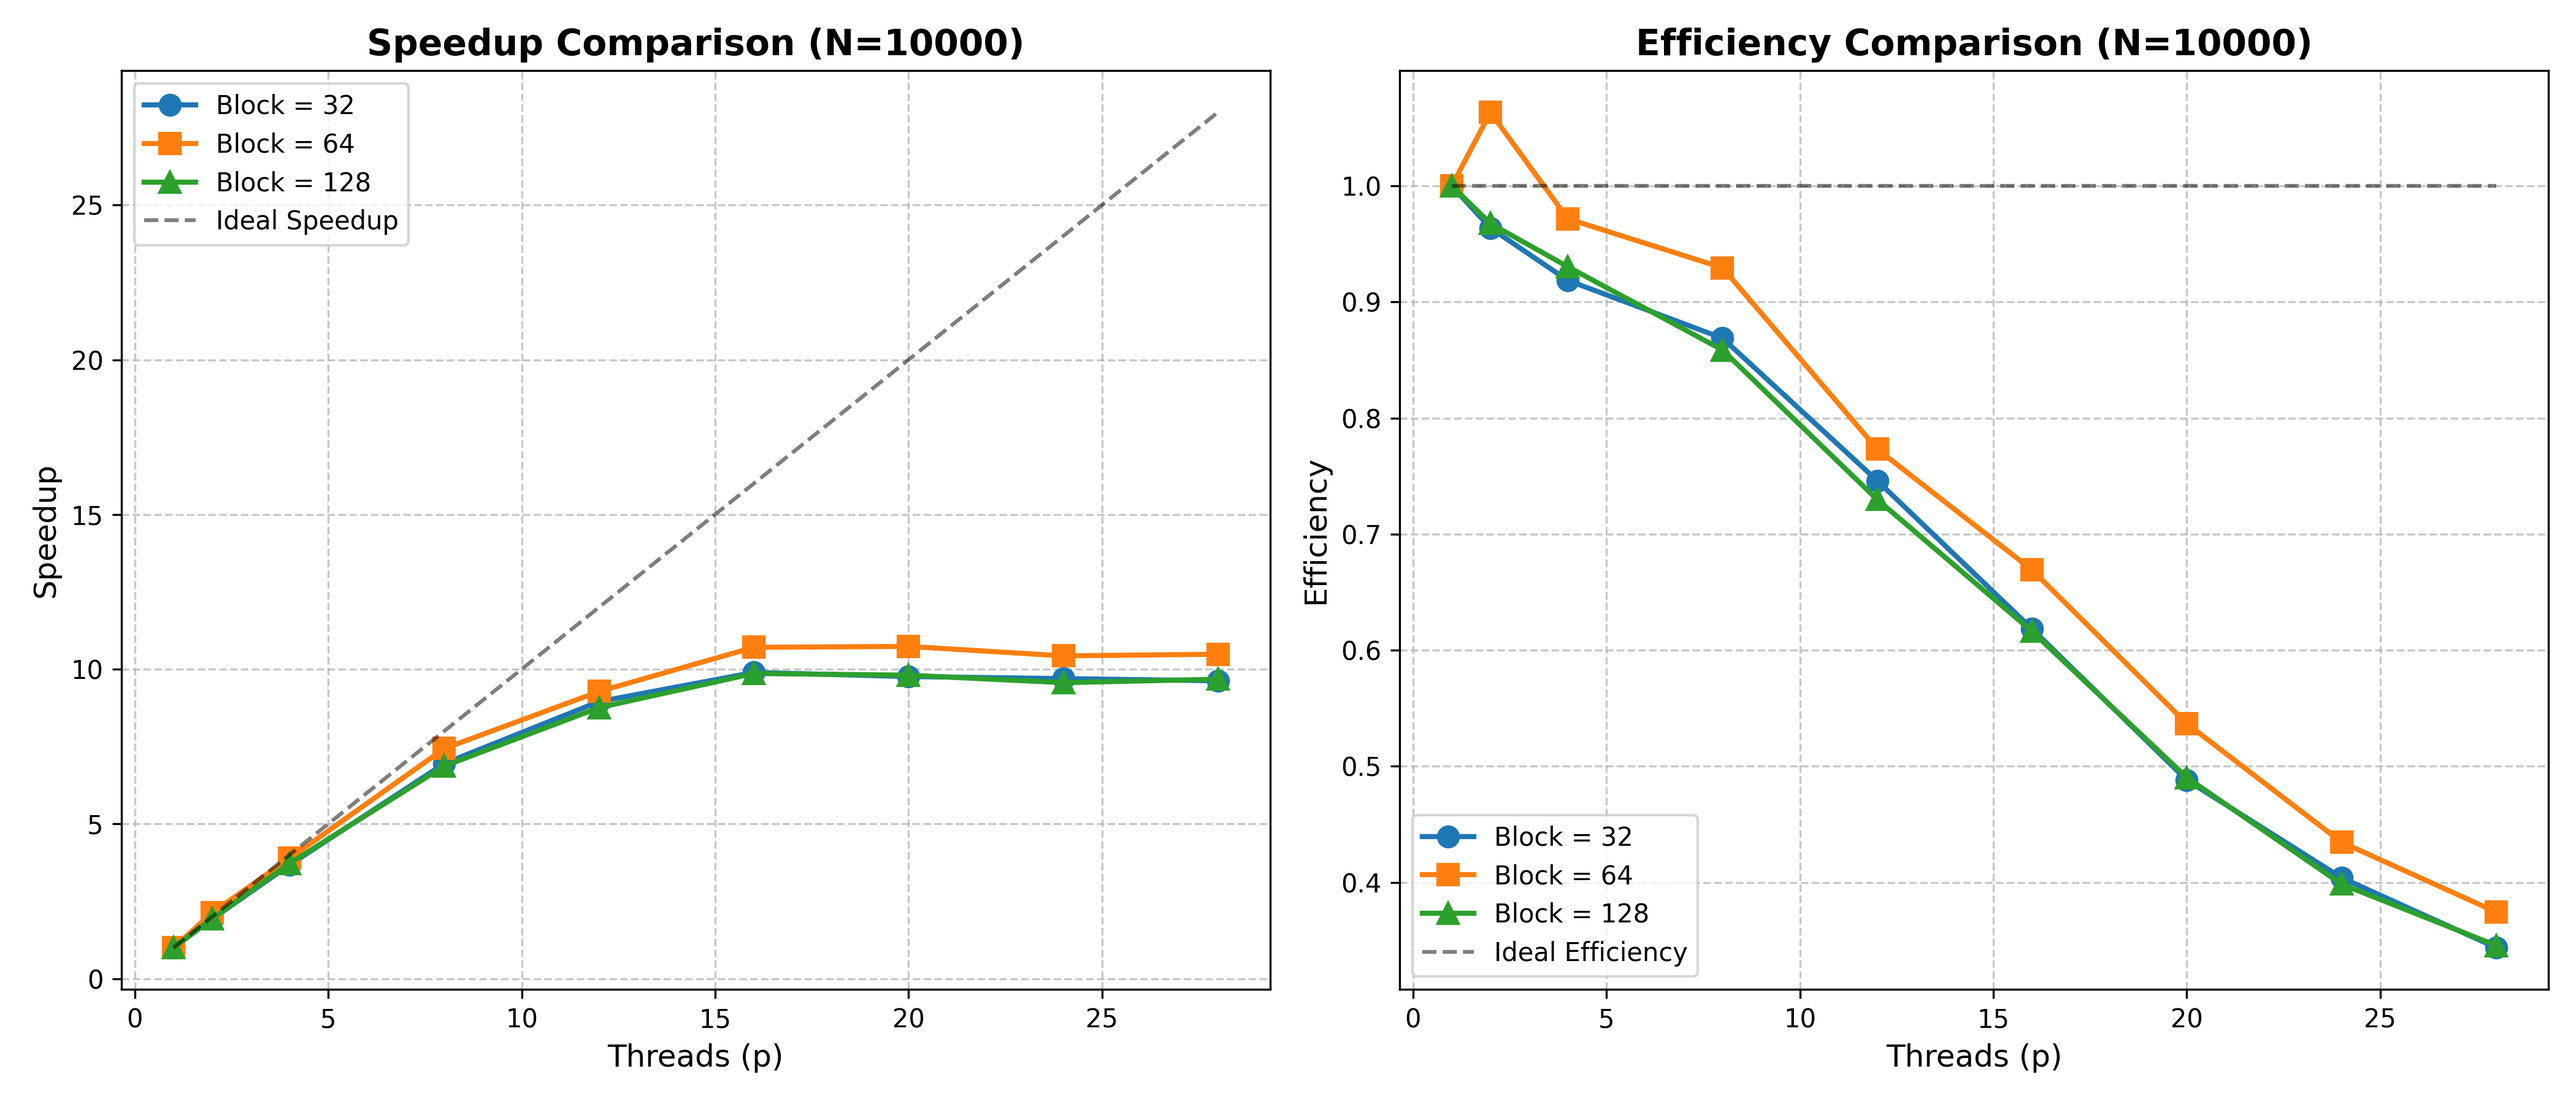
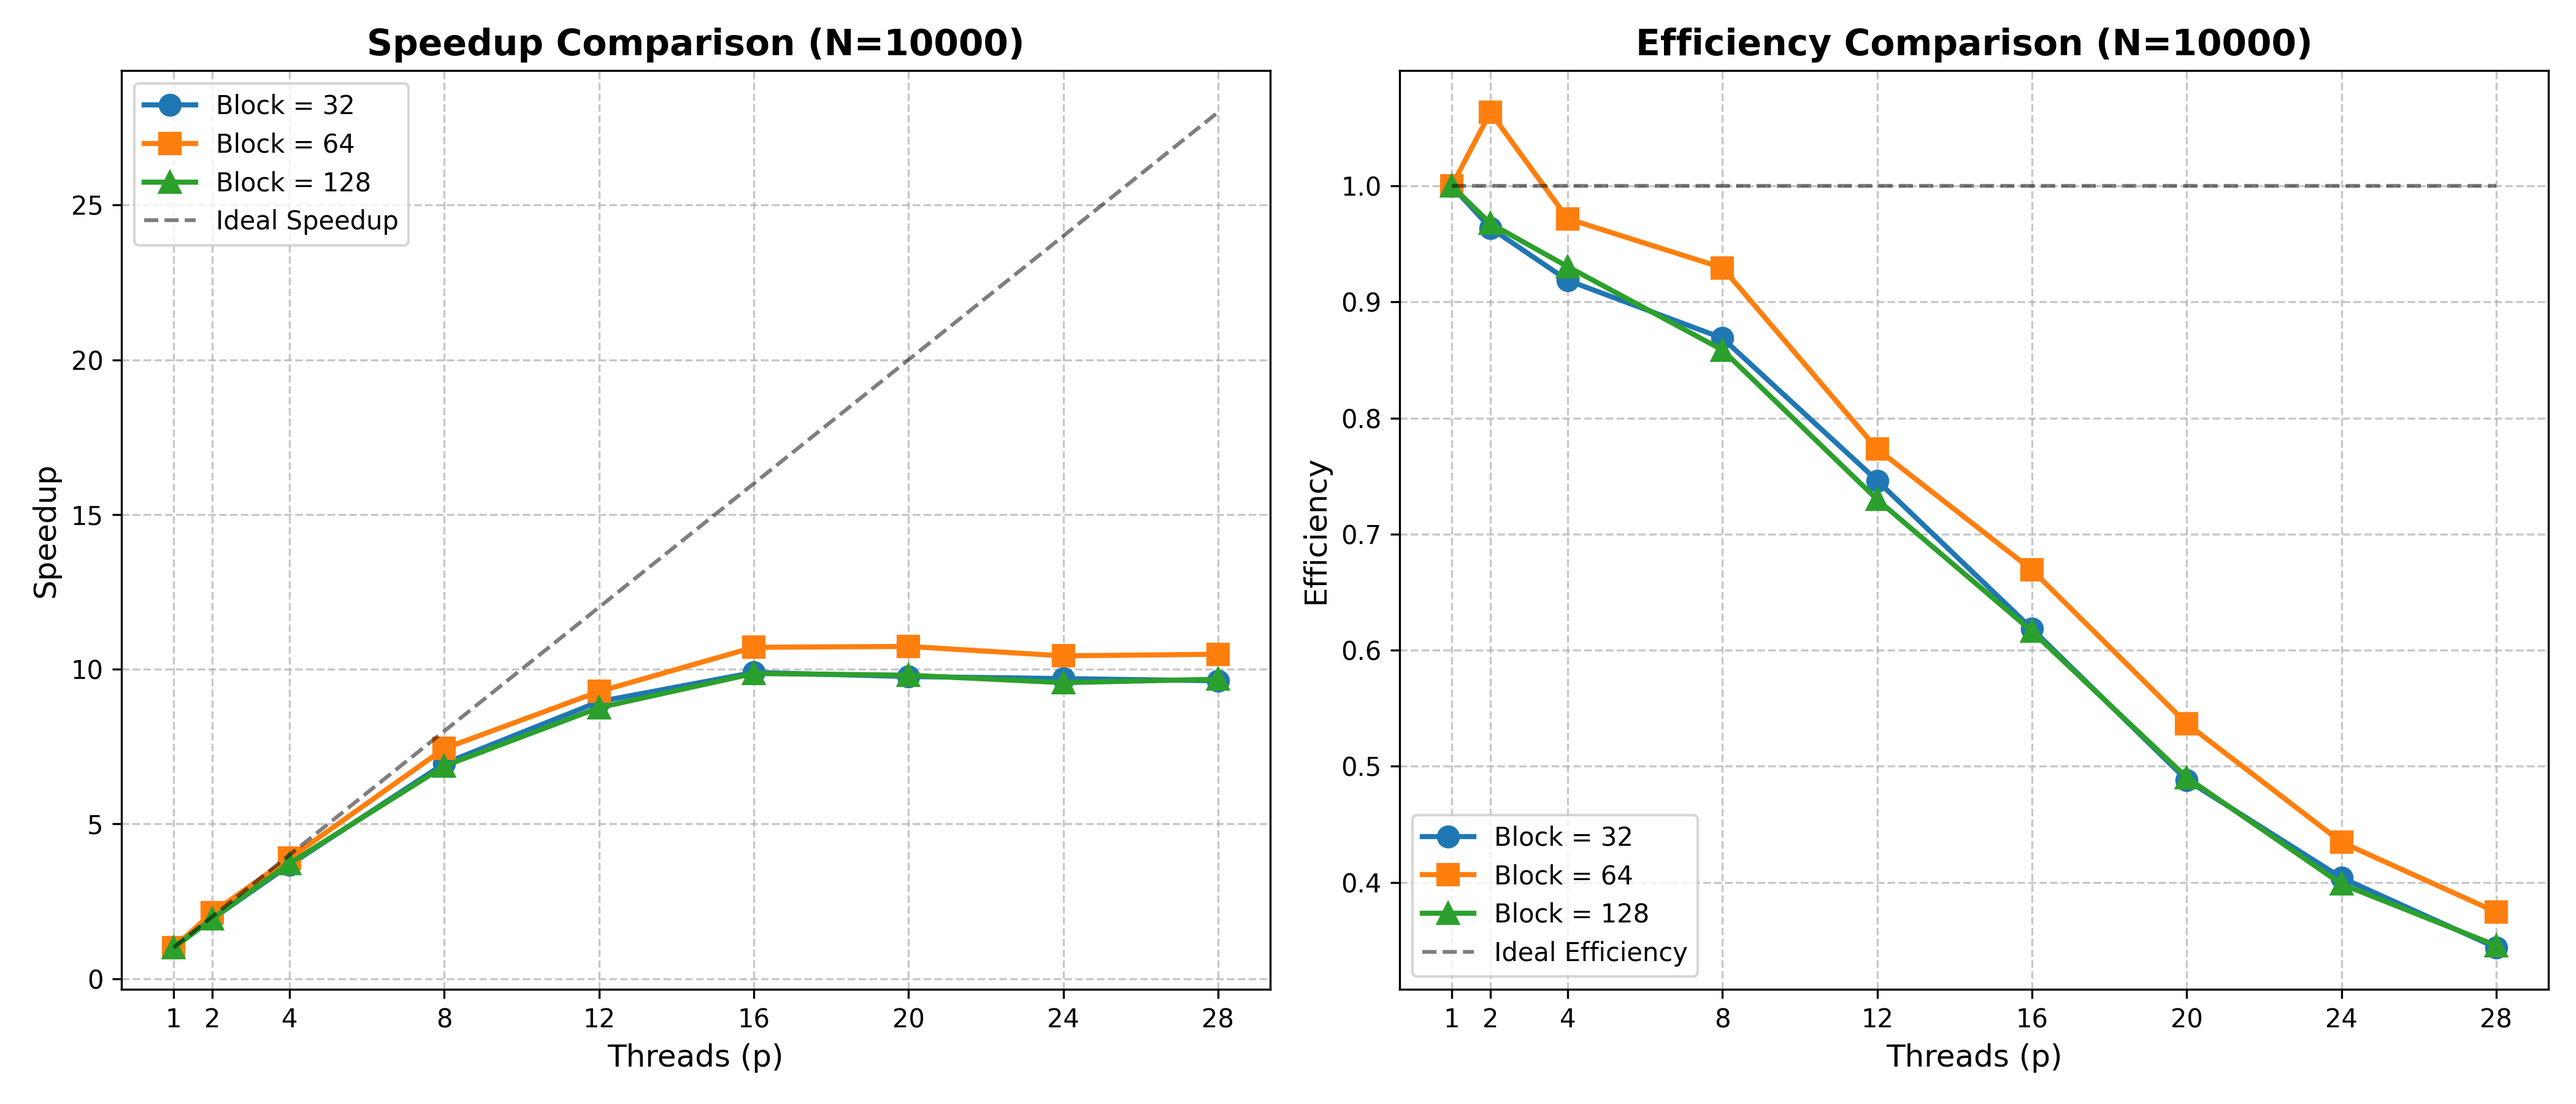
correct openMp block graphs

Changed region(s): [[0.9045, 0.9022, 0.9357, 0.9333], [0.4055, 0.9022, 0.4367, 0.9333], [0.2807, 0.9022, 0.3119, 0.9333]]

diff --git a/scripts/plot_block.py b/scripts/plot_block.py
@@ -9,7 +9,7 @@ except FileNotFoundError:
     print("Error: File {} not found.".format(csv_path))
     exit(1)
 
-target_N = 10000
+target_N = 15000
 df_n = df[df['N'] == target_N]
 
 fig, (ax1, ax2) = plt.subplots(1, 2, figsize=(14, 6))
@@ -36,14 +36,16 @@ max_threads = df['Threads'].max()
 ax1.plot([1, max_threads], [1, max_threads], 'k--', alpha=0.5, label='Ideal Speedup')
 ax2.plot([1, max_threads], [1, 1], 'k--', alpha=0.5, label='Ideal Efficiency')
  
-ax1.set_title('Speedup Comparison (N=5000)', fontsize=14, fontweight='bold')
+ax1.set_title('Speedup Comparison (N=15000)', fontsize=14, fontweight='bold')
 ax1.set_xlabel('Threads (p)', fontsize=12)
+ax1.set_xticks(df['Threads'].unique())
 ax1.set_ylabel('Speedup', fontsize=12)
 ax1.grid(True, linestyle='--', alpha=0.7)
 ax1.legend()
 
-ax2.set_title('Efficiency Comparison (N=5000)', fontsize=14, fontweight='bold')
+ax2.set_title('Efficiency Comparison (N=15000)', fontsize=14, fontweight='bold')
 ax2.set_xlabel('Threads (p)', fontsize=12)
+ax2.set_xticks(df['Threads'].unique())
 ax2.set_ylabel('Efficiency', fontsize=12)
 ax2.grid(True, linestyle='--', alpha=0.7)
 ax2.legend()
